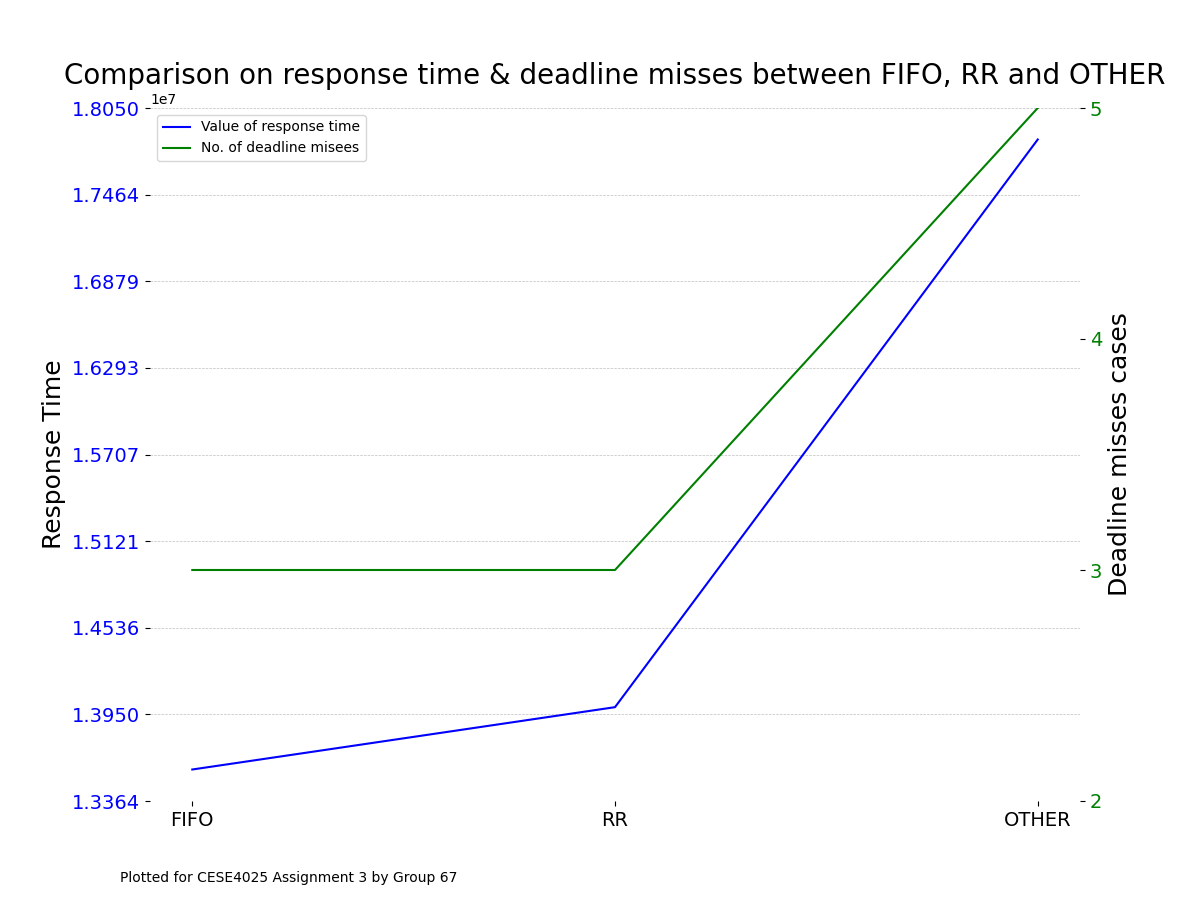
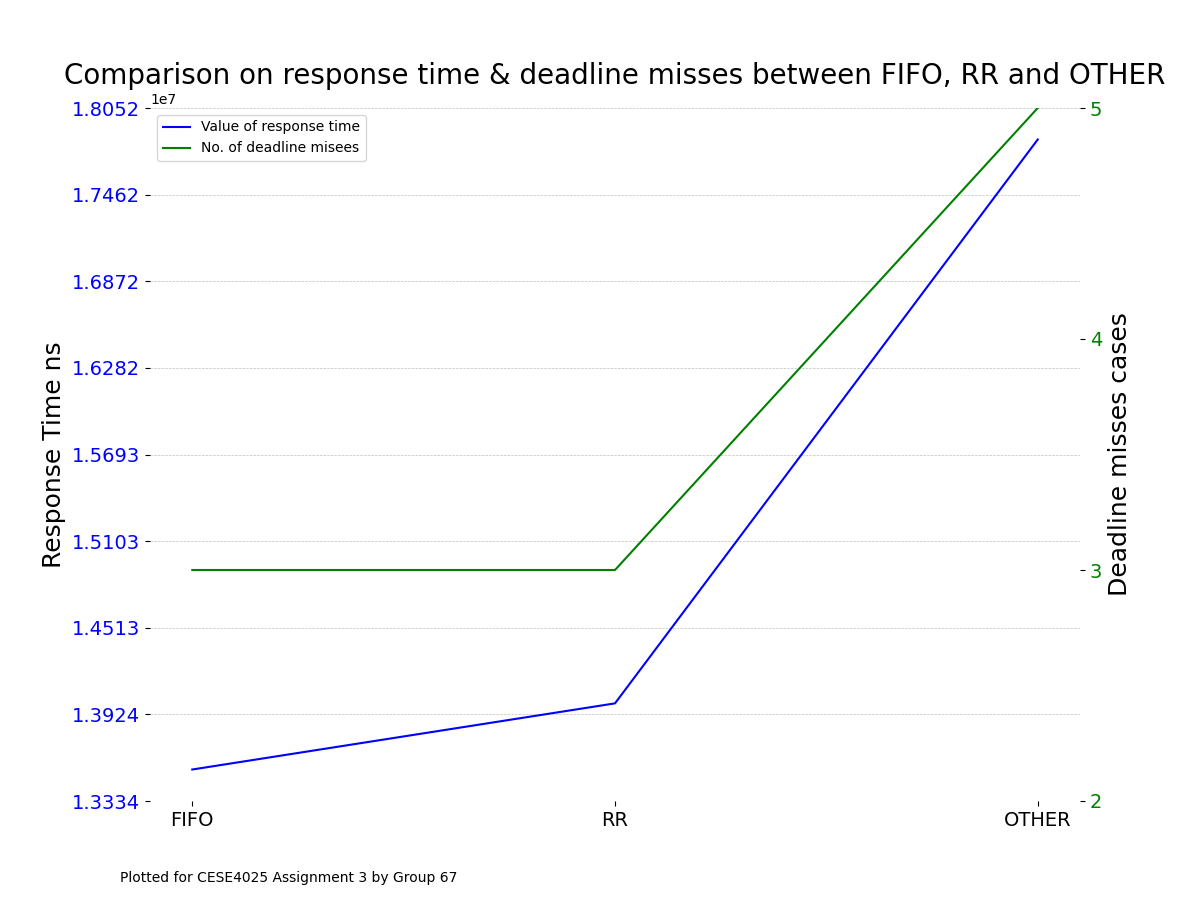
Added another pyplot

diff --git a/pyplot2.py b/pyplot2.py
@@ -1,0 +1,66 @@
+A1_releaseDiff = []
+with open(r'A1-ReleaseTimeDiff.txt') as f:
+    for line in f:
+        fields = line.split()
+        rowdata = map(float, fields)
+        A1_releaseDiff.extend(rowdata)
+        
+
+
+A2_releaseDiff = []
+with open(r'A2-ReleaseTimeDiff.txt') as f:
+    for line in f:
+        fields = line.split()
+        rowdata = map(float, fields)
+        A2_releaseDiff.extend(rowdata)
+
+import numpy as np
+import pandas as pd
+import matplotlib.pyplot as plt
+
+X_values = ["1","2","3","4","5","6","7","8","9","10"]
+Y_values_1 = A1_releaseDiff
+Y_values_2 = A2_releaseDiff
+Y_values_3 = [0,0,0,0,0,0,0,0,0,0]
+
+fig, ax1 = plt.subplots(figsize=(12,9))
+title = ('Comparison on difference of actual and expected release time among 3 techniques')
+plt.title(title,fontsize=20)
+plt.grid(axis='y',color='grey',linestyle='--',lw=0.5,alpha=0.5)
+plt.tick_params(axis='both',labelsize=14)
+plot1 = ax1.plot(X_values,Y_values_1,'b',label='Alternative 1')
+ax1.set_xlabel('Number of execution periods', fontsize = 18)
+ax1.set_ylabel('Difference (Actual - Expected) ns', fontsize = 18)
+ax1.set_ylim(0,8e7)
+for tl in ax1.get_yticklabels():
+    tl.set_color('b')  
+    
+ax2 = ax1.twinx()
+plot2 = ax2.plot(X_values,Y_values_2,'g',label='Alternative 2')
+ax2.set_ylabel('Difference (Actual - Expected) ns',fontsize=18)
+ax2.set_ylim(0,3e7)
+ax2.tick_params(axis='y',labelsize=14)
+for tl in ax2.get_yticklabels():
+    tl.set_color('g')                    
+# ax2.set_xlim(1966,2014.15)
+
+ax3 = ax1.twinx()
+plot3 = ax3.plot(X_values,Y_values_3,'r',label='Correct Implementation')
+ax3.set_ylim(0,3e7)
+ax3.tick_params(axis='y',labelsize=14)
+for tl in ax3.get_yticklabels():
+    tl.set_color('r')                    
+# ax2.set_xlim(1966,2014.15)
+
+lines = plot1 + plot2 + plot3   
+ax1.legend(lines,[l.get_label() for l in lines])    
+ax1.set_yticks(np.linspace(ax1.get_ybound()[0],ax1.get_ybound()[1],9)) 
+ax2.set_yticks(np.linspace(ax2.get_ybound()[0],ax2.get_ybound()[1],9)) 
+ax3.set_yticks(np.linspace(ax3.get_ybound()[0],ax3.get_ybound()[1],1)) 
+for ax in [ax1,ax2,ax3]:
+    ax.spines['top'].set_visible(False)
+    ax.spines['bottom'].set_visible(False)
+    ax.spines['right'].set_visible(False)
+    ax.spines['left'].set_visible(False)                       
+fig.text(0.1,0.02,'Plotted for CESE4025 Assignment 3 by Group 67',fontsize=10)
+plt.savefig("Comparisons2.png")

diff --git a/pyplot.py b/pyplot.py
@@ -47,7 +47,7 @@ plt.title(title,fontsize=20)
 plt.grid(axis='y',color='grey',linestyle='--',lw=0.5,alpha=0.5)
 plt.tick_params(axis='both',labelsize=14)
 plot1 = ax1.plot(X_values,Y_values_1,'b',label='Value of response time')
-ax1.set_ylabel('Response Time', fontsize = 18)
+ax1.set_ylabel('Response Time ns', fontsize = 18)
 # ax1.set_ylim(0,240)
 for tl in ax1.get_yticklabels():
     tl.set_color('b')  
